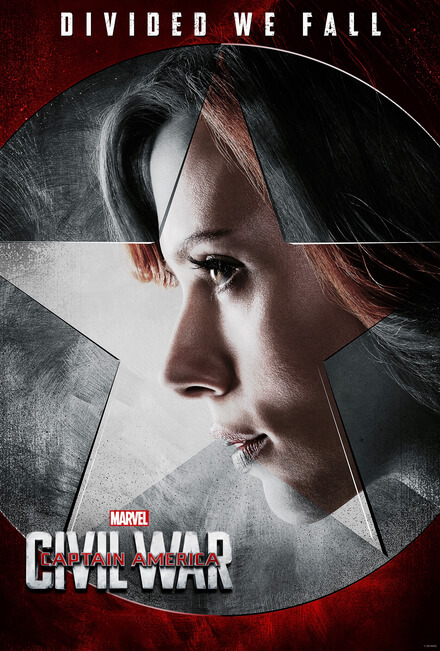
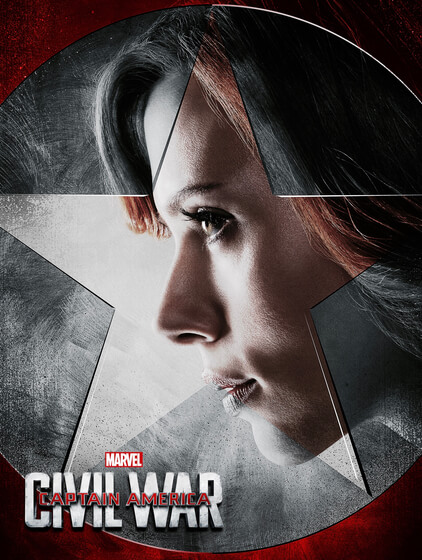
Cropped Hero Images
Cropped hero images to remove text at top and border at the bottom. Also, removed health points from the figure captions.

diff --git a/index.html b/index.html
@@ -16,42 +16,36 @@
         <img src="assets/img/capt-america.jpg" alt="Captain America's profile">
         <figcaption>
           <p class="hero-name">Captain America</p>
-          <p class="hp-title">Health: <span class="hp-value"></span></p>
         </figcaption>
       </figure> <!-- hero-container -->
       <figure class="hero-container" data-hero="ironMan" data-team="red">
         <img src="assets/img/iron-man.jpg" alt="Iron Man's profile">
         <figcaption>
           <p class="hero-name">Iron Man</p>
-          <p class="hp-title">Health: <span class="hp-value"></span></p>
         </figcaption>
       </figure> <!-- hero-container -->
       <figure class="hero-container" data-hero="scarletWitch" data-team="blue">
         <img src="assets/img/scarlet-witch.jpg" alt="Scarlet Witch's profile">
         <figcaption>
           <p class="hero-name">Scarlet Witch</p>
-          <p class="hp-title">Health: <span class="hp-value"></span></p>
         </figcaption>
       </figure> <!-- hero-container -->
       <figure class="hero-container" data-hero="vision" data-team="red">
         <img src="assets/img/vision.jpg" alt="Vision's profile">
         <figcaption>
           <p class="hero-name">Vision</p>
-          <p class="hp-title">Health: <span class="hp-value"></span></p>
         </figcaption>
       </figure> <!-- hero-container -->
       <figure class="hero-container" data-hero="falcon" data-team="blue">
         <img src="assets/img/falcon.jpg" alt="Falcon's profile">
         <figcaption>
           <p class="hero-name">Falcon</p>
-          <p class="hp-title">Health: <span class="hp-value"></span></p>
         </figcaption>
       </figure> <!-- hero-container -->
       <figure class="hero-container" data-hero="blackWidow" data-team="red">
         <img src="assets/img/black-widow.jpg" alt="Black Widow's profile">
         <figcaption>
           <p class="hero-name">Black Widow</p>
-          <p class="hp-title">Health: <span class="hp-value"></span></p>
         </figcaption>
       </figure> <!-- hero-container -->
       <button id="attack-btn" type="button"><span></span></button>

diff --git a/assets/css/styles.css b/assets/css/styles.css
@@ -38,10 +38,6 @@ img {
 /* Base Layout Styles
    ------------------------- */
 
-/* Navigation  */
-
-
-
 /* Layout Containers */
 
 .hero-container {
@@ -55,44 +51,46 @@ img {
   border-radius: 8px;
 }
 
-.hero-container:hover {
-  z-index: 10;
-}
-
 .hero-container:nth-of-type(1) {
   top: 0;
   left: 0;
+  z-index: 3;
 }
 
 .hero-container:nth-of-type(2) {
   top: 0;
   right: 0;
+  z-index: 3;
 }
 
 .hero-container:nth-of-type(3) {
-  top: 28%;
-  left: 0;
+  top: 33%;
+  left: 10%;
+  z-index: 2;
 }
 
 .hero-container:nth-of-type(4) {
-  top: 28%;
-  right: 0;
+  top: 33%;
+  right: 10%;
+  z-index: 2;
 }
 
 .hero-container:nth-of-type(5) {
   bottom: 0;
   left: 0;
+  z-index: 1;
 }
 
 .hero-container:nth-of-type(6) {
   bottom: 0;
   right: 0;
+  z-index: 1;
 }
 
 /* Page Elements */
 
 .hero-name {
-  padding-top: 0.25rem;
+  padding: 0 0 0.5rem;
 }
 
 .hp-title {

diff --git a/assets/js/app.js b/assets/js/app.js
@@ -5,7 +5,6 @@ const $heroes = $('.hero-container');
 const $btn = $('#attack-btn');
 const $btnText = $('#attack-btn span');
 const $message = $('#message');
-const hpClass = ".hp-value";
 
 let rpg = {
   charSelect: "",
@@ -123,9 +122,6 @@ let rpg = {
 };
 
 let setupGame = function () {
-  $.each(rpg.characters, function(char, obj) {
-    rpg.fn.updateHp(char, obj);
-  });
   rpg.fn.setText(0, 0);
   rpg.charSelect = "";
   rpg.oppSelect = "";
@@ -163,7 +159,10 @@ let animateChar = function (element, side) {
   element.animate({
     top: topPos,
     [side]: sidePos
-  }, 'slow').css('bottom', 'auto');
+  }, 'slow').css({
+    'bottom': 'auto',
+    'z-index': '10'
+  });
 };
 
 let removeHero = function (hero) {
